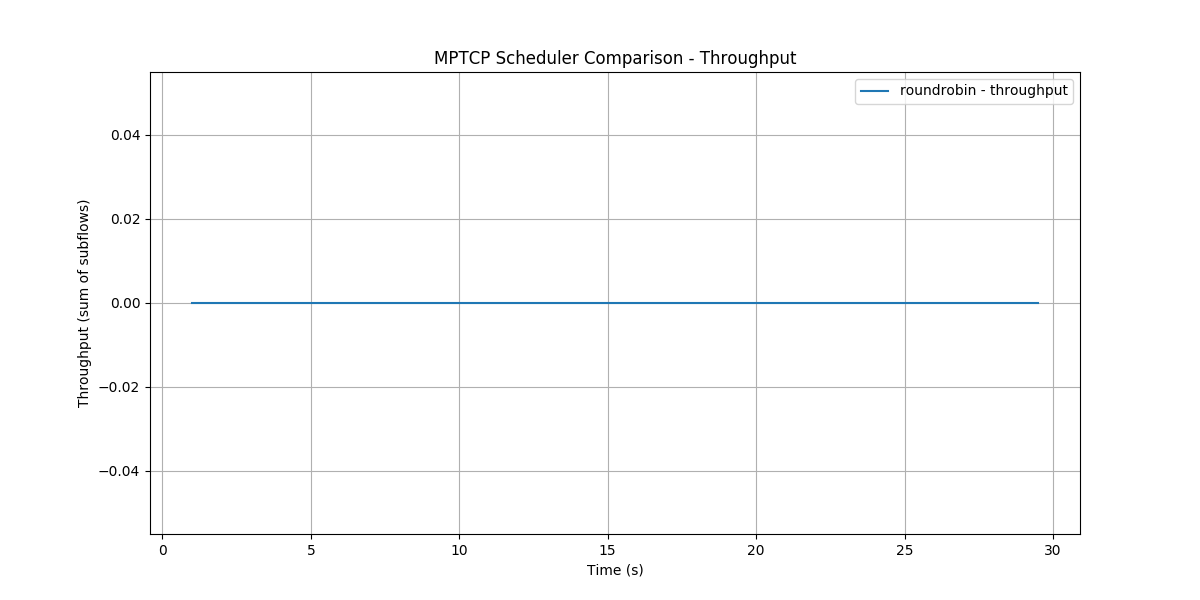
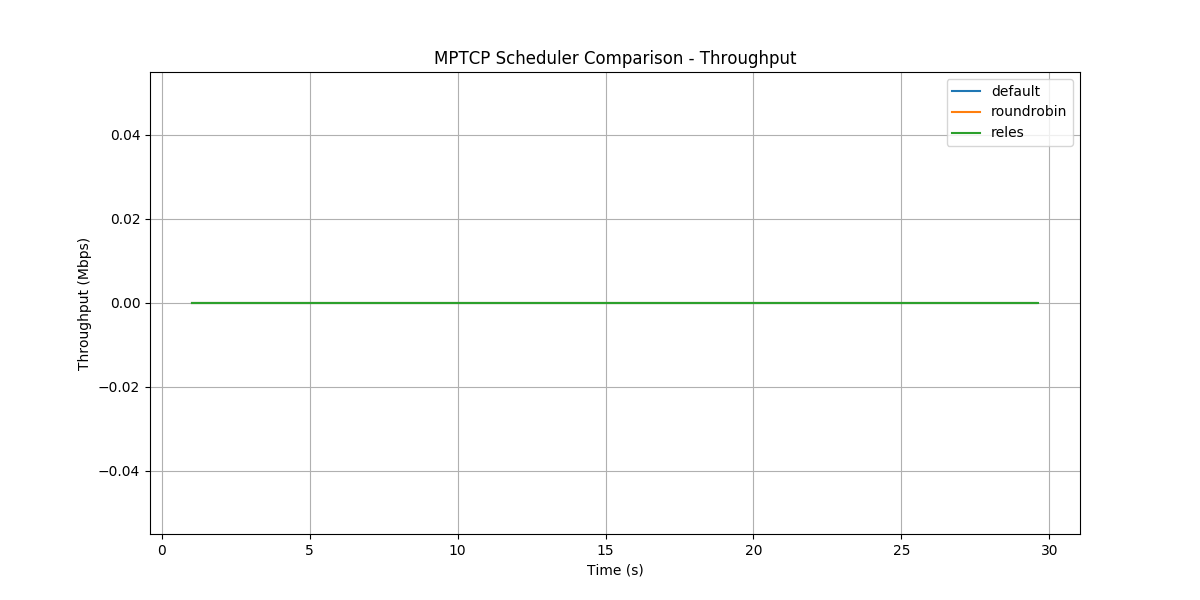
update the script and results

diff --git a/client_mptcp.py b/client_mptcp.py
@@ -4,11 +4,9 @@ import socket
 import signal
 import time
 import random
-import numpy as np
-import mpsched
+import subprocess
 import pandas as pd
 import sys
-import subprocess
 import argparse
 import os
 import matplotlib.pyplot as plt
@@ -16,6 +14,7 @@ import matplotlib.pyplot as plt
 BUFFER_SIZE = 1024
 PERF_RECORD_INTERVAL = 1.0
 keep_running = True
+NAMESPACE = "ns-mptcp"  # 你的 namespace 名称
 
 def signal_handler(sig, frame):
     global keep_running
@@ -23,137 +22,94 @@ def signal_handler(sig, frame):
 
 signal.signal(signal.SIGINT, signal_handler)
 
-def create_mptcp_socket():
-    s = socket.socket(socket.AF_INET, socket.SOCK_STREAM, socket.IPPROTO_TCP)
-    s.setsockopt(socket.IPPROTO_TCP, 42, 1)
-    return s
-
-def connect_socket(sock, server_ip, port):
-    sock.connect((server_ip, port))
-
-def generate_buffer():
-    return bytes([random.randint(33, 126) for _ in range(BUFFER_SIZE)])
-
-def get_subflow_metrics(fd):
-    subs = mpsched.get_sub_info(fd)
-    throughput_sum = 0
-    rtts = []
-    loss_weighted = []
-
-    for sub in subs:
-        rtt = sub[3]
-        tp = sub[4]
-        segs_out = sub[5]
-        retrans = sub[6]
-        loss = retrans / segs_out if segs_out > 0 else 0
-
-        throughput_sum += tp
-        rtts.append(rtt)
-        loss_weighted.append((tp, loss))
-
-    max_latency = max(rtts) if rtts else 0
-    weighted_loss = sum(tp * loss for tp, loss in loss_weighted) / throughput_sum if throughput_sum > 0 else 0
-
-    return throughput_sum, max_latency, weighted_loss
-
 def set_scheduler(scheduler_name):
-    print(f"🔧 Setting scheduler to {scheduler_name} in root namespace...")
-    subprocess.run(["sudo", "sysctl", f"net.mptcp.mptcp_scheduler={scheduler_name}"], check=True)
+    """在主空间切换 scheduler"""
+    try:
+        subprocess.run(["sudo", "sysctl", f"net.mptcp.mptcp_scheduler={scheduler_name}"], check=True)
+        print(f"✅ Scheduler set to {scheduler_name} (in root namespace)")
+    except subprocess.CalledProcessError as e:
+        print(f"⚠ Failed to set scheduler {scheduler_name}, error: {e}")
 
-def run_test(server_ip, port, scheduler, duration=10):
-    sock = create_mptcp_socket()
-    connect_socket(sock, server_ip, port)
-    print(f"[{scheduler}] Connected to {server_ip}:{port}")
+def run_test_in_namespace(server_ip, port, duration, scheduler):
+    """在 mptcp namespace 内实际执行 client 逻辑"""
+    cmd = [
+        "sudo", "ip", "netns", "exec", NAMESPACE,
+        "python3", "-c", f'''
+import socket
+import time
+import random
+import pandas as pd
 
-    total_sent = 0
-    total_recv = 0
-    start_time = time.time()
-    last_record = start_time
-    metrics_log = []
-    fd = sock.fileno()
-    buffer = generate_buffer()
+BUFFER_SIZE = {BUFFER_SIZE}
+PERF_RECORD_INTERVAL = {PERF_RECORD_INTERVAL}
 
-    while keep_running and (time.time() - start_time < duration):
-        try:
-            sent = sock.send(buffer)
-            if sent <= 0:
-                break
-            total_sent += sent
+s = socket.socket(socket.AF_INET, socket.SOCK_STREAM, socket.IPPROTO_TCP)
+s.setsockopt(socket.IPPROTO_TCP, 42, 1)
+s.connect(("{server_ip}", {port}))
 
-            try:
-                recv_data = sock.recv(BUFFER_SIZE)
-                total_recv += len(recv_data)
-            except BlockingIOError:
-                pass
+start_time = time.time()
+last_record = start_time
+total_sent = 0
+total_recv = 0
+metrics = []
 
-            if time.time() - last_record >= PERF_RECORD_INTERVAL:
-                throughput, latency, loss_rate = get_subflow_metrics(fd)
-                metrics_log.append({
-                    "time": time.time() - start_time,
-                    "throughput_total": throughput,
-                    "latency_max": latency,
-                    "segment_loss_rate_weighted": loss_rate
-                })
-                last_record = time.time()
+data = bytes([random.randint(33, 126) for _ in range(BUFFER_SIZE)])
 
-            time.sleep(0.05)
-        except Exception as e:
-            print(f"[{scheduler}] Error: {e}")
+while time.time() - start_time < {duration}:
+    try:
+        sent = s.send(data)
+        if sent <= 0:
             break
+        total_sent += sent
 
-    sock.close()
-    df = pd.DataFrame(metrics_log)
-    filename = f"metrics_{scheduler}.csv"
-    df.to_csv(filename, index=False)
-    print(f"[{scheduler}] Metrics saved to {filename}")
-    return filename
+        try:
+            recv_data = s.recv(BUFFER_SIZE)
+            total_recv += len(recv_data)
+        except BlockingIOError:
+            pass
+
+        now = time.time()
+        if now - last_record >= PERF_RECORD_INTERVAL:
+            elapsed = now - last_record
+            throughput = (total_sent - total_recv) * 8 / elapsed / 1e6
+            metrics.append({{"time": now - start_time, "throughput_mbps": throughput}})
+            last_record = now
+
+        time.sleep(0.05)
+    except Exception as e:
+        print("Error during transfer:", e)
+        break
+
+s.close()
+df = pd.DataFrame(metrics)
+csv_name = "metrics_{scheduler}.csv"
+df.to_csv(csv_name, index=False)
+print(f"✅ Saved {{csv_name}}")
+'''
+    ]
+    subprocess.run(cmd)
 
 def plot_metrics(csv_files):
     plt.figure(figsize=(12, 6))
-    for csv in csv_files:
-        scheduler = csv.split("_")[1].split(".")[0]
-        df = pd.read_csv(csv)
-        plt.plot(df["time"], df["throughput_total"], label=f"{scheduler} - throughput")
+
+    for csv_file in csv_files:
+        scheduler = os.path.basename(csv_file).split("_")[1].split(".")[0]
+        if not os.path.exists(csv_file):
+            print(f"⚠ Warning: file {csv_file} does not exist, skipping")
+            continue
+        df = pd.read_csv(csv_file)
+        if "throughput_mbps" not in df.columns:
+            print(f"⚠ Warning: file {csv_file} missing throughput_mbps, skipping")
+            continue
+        plt.plot(df["time"], df["throughput_mbps"], label=f"{scheduler}")
+
     plt.xlabel("Time (s)")
-    plt.ylabel("Throughput (sum of subflows)")
+    plt.ylabel("Throughput (Mbps)")
     plt.title("MPTCP Scheduler Comparison - Throughput")
     plt.legend()
     plt.grid()
     plt.savefig("plot_throughput.png")
-
-    plt.figure(figsize=(12, 6))
-    for csv in csv_files:
-        scheduler = csv.split("_")[1].split(".")[0]
-        df = pd.read_csv(csv)
-        plt.plot(df["time"], df["latency_max"], label=f"{scheduler} - max latency")
-    plt.xlabel("Time (s)")
-    plt.ylabel("Max Latency (ms)")
-    plt.title("MPTCP Scheduler Comparison - Max Latency")
-    plt.legend()
-    plt.grid()
-    plt.savefig("plot_latency.png")
-
-    plt.figure(figsize=(12, 6))
-    for csv in csv_files:
-        scheduler = csv.split("_")[1].split(".")[0]
-        df = pd.read_csv(csv)
-        plt.plot(df["time"], df["segment_loss_rate_weighted"], label=f"{scheduler} - loss rate")
-    plt.xlabel("Time (s)")
-    plt.ylabel("Weighted Segment Loss Rate")
-    plt.title("MPTCP Scheduler Comparison - Loss Rate")
-    plt.legend()
-    plt.grid()
-    plt.savefig("plot_lossrate.png")
-
-    print("✅ Plots saved: plot_throughput.png, plot_latency.png, plot_lossrate.png")
-
-def main_inside_namespace(args):
-    csvs = []
-    for sched in args.schedulers:
-        print(f"🧪 Testing scheduler: {sched}")
-        csv_file = run_test(args.ip, args.port, sched, args.duration)
-        csvs.append(csv_file)
-    plot_metrics(csvs)
+    print("✅ Throughput plot saved as plot_throughput.png")
 
 def main():
     parser = argparse.ArgumentParser()
@@ -161,23 +117,16 @@ def main():
     parser.add_argument("--port", type=int, required=True, help="Server port")
     parser.add_argument("--schedulers", nargs="+", required=True, help="Schedulers to test")
     parser.add_argument("--duration", type=int, default=10, help="Test duration per scheduler (s)")
-    parser.add_argument("--already_in_ns", action="store_true", help="Internal flag for namespace execution")
     args = parser.parse_args()
 
-    if not args.already_in_ns:
-        for sched in args.schedulers:
-            # 先在主机空间设置 scheduler
-            set_scheduler(sched)
-            time.sleep(1)
-            # 进入 namespace 执行实际发送
-            cmd = ["sudo", "ip", "netns", "exec", "ns-mptcp", "python3", sys.argv[0],
-                   "--ip", args.ip, "--port", str(args.port),
-                   "--schedulers", sched,
-                   "--duration", str(args.duration),
-                   "--already_in_ns"]
-            subprocess.run(cmd, check=True)
-    else:
-        main_inside_namespace(args)
+    csvs = []
+    for sched in args.schedulers:
+        set_scheduler(sched)
+        time.sleep(1)
+        run_test_in_namespace(args.ip, args.port, args.duration, sched)
+        csvs.append(f"metrics_{sched}.csv")
+
+    plot_metrics(csvs)
 
 if __name__ == "__main__":
     main()
